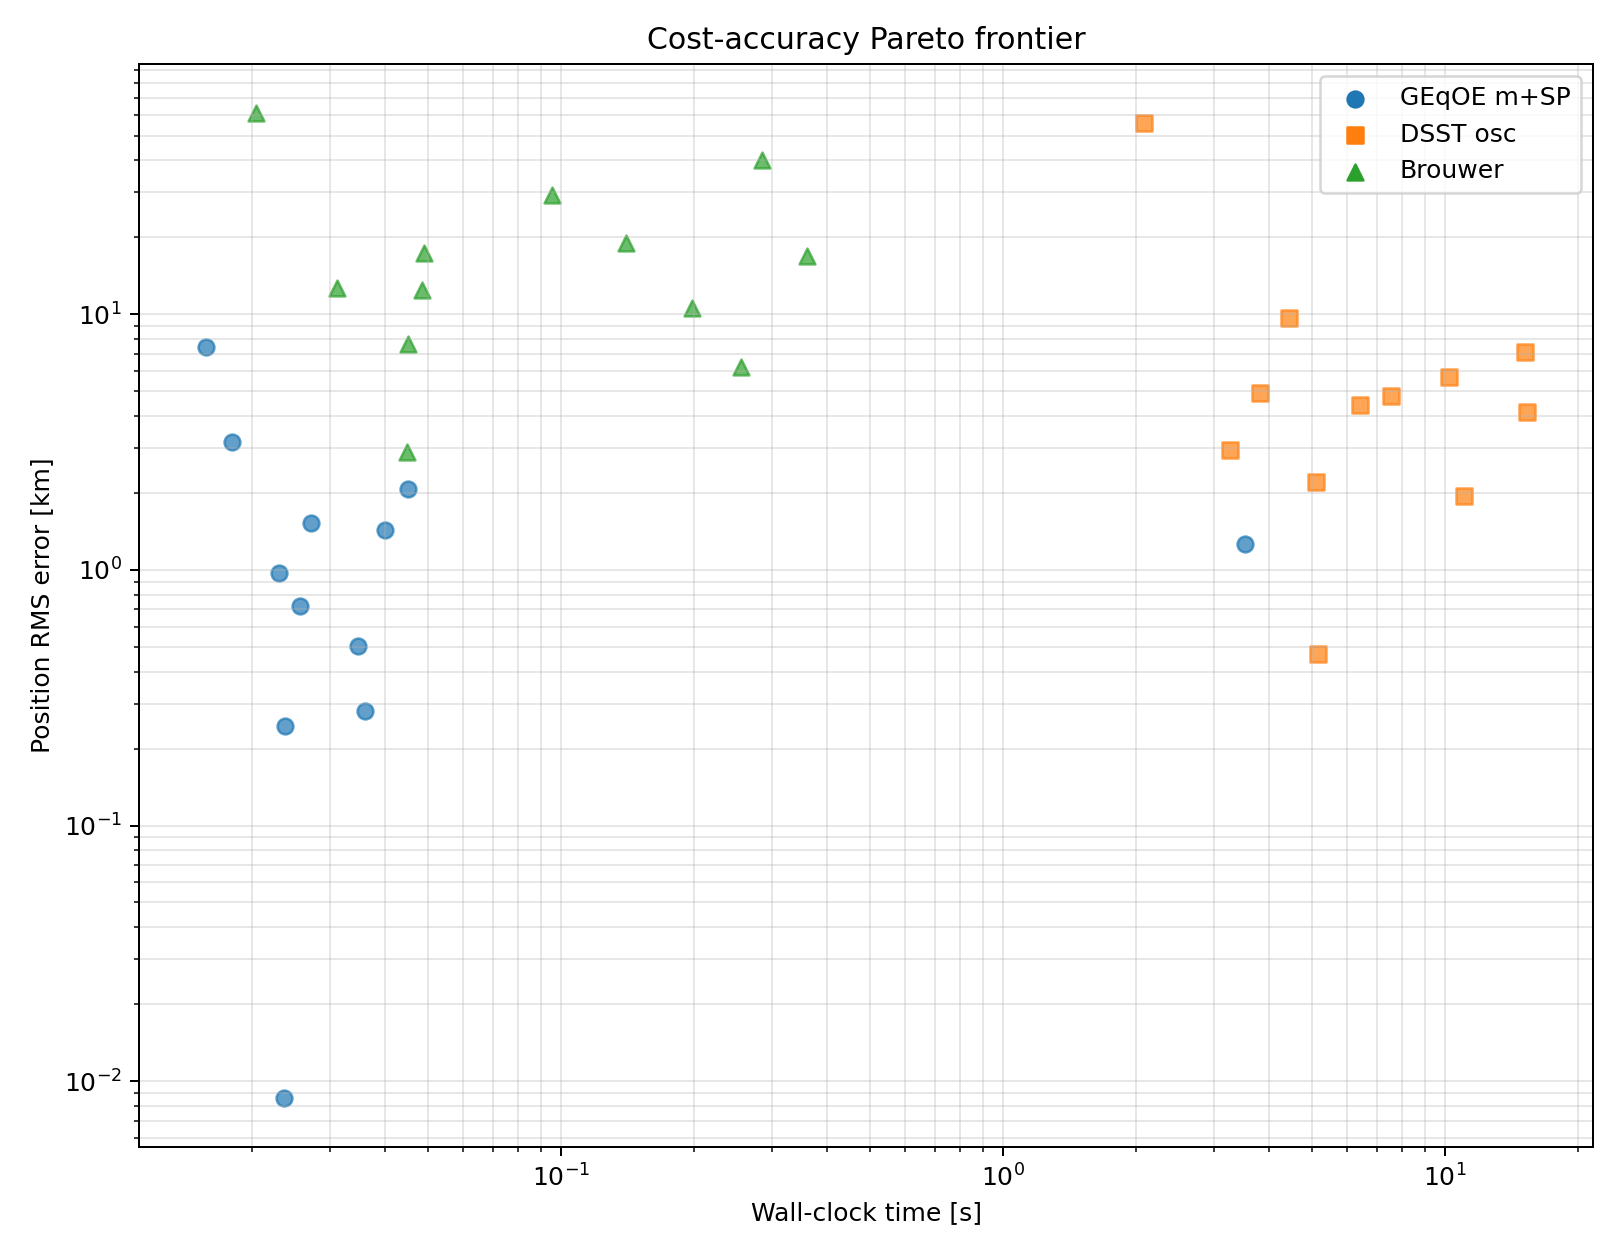
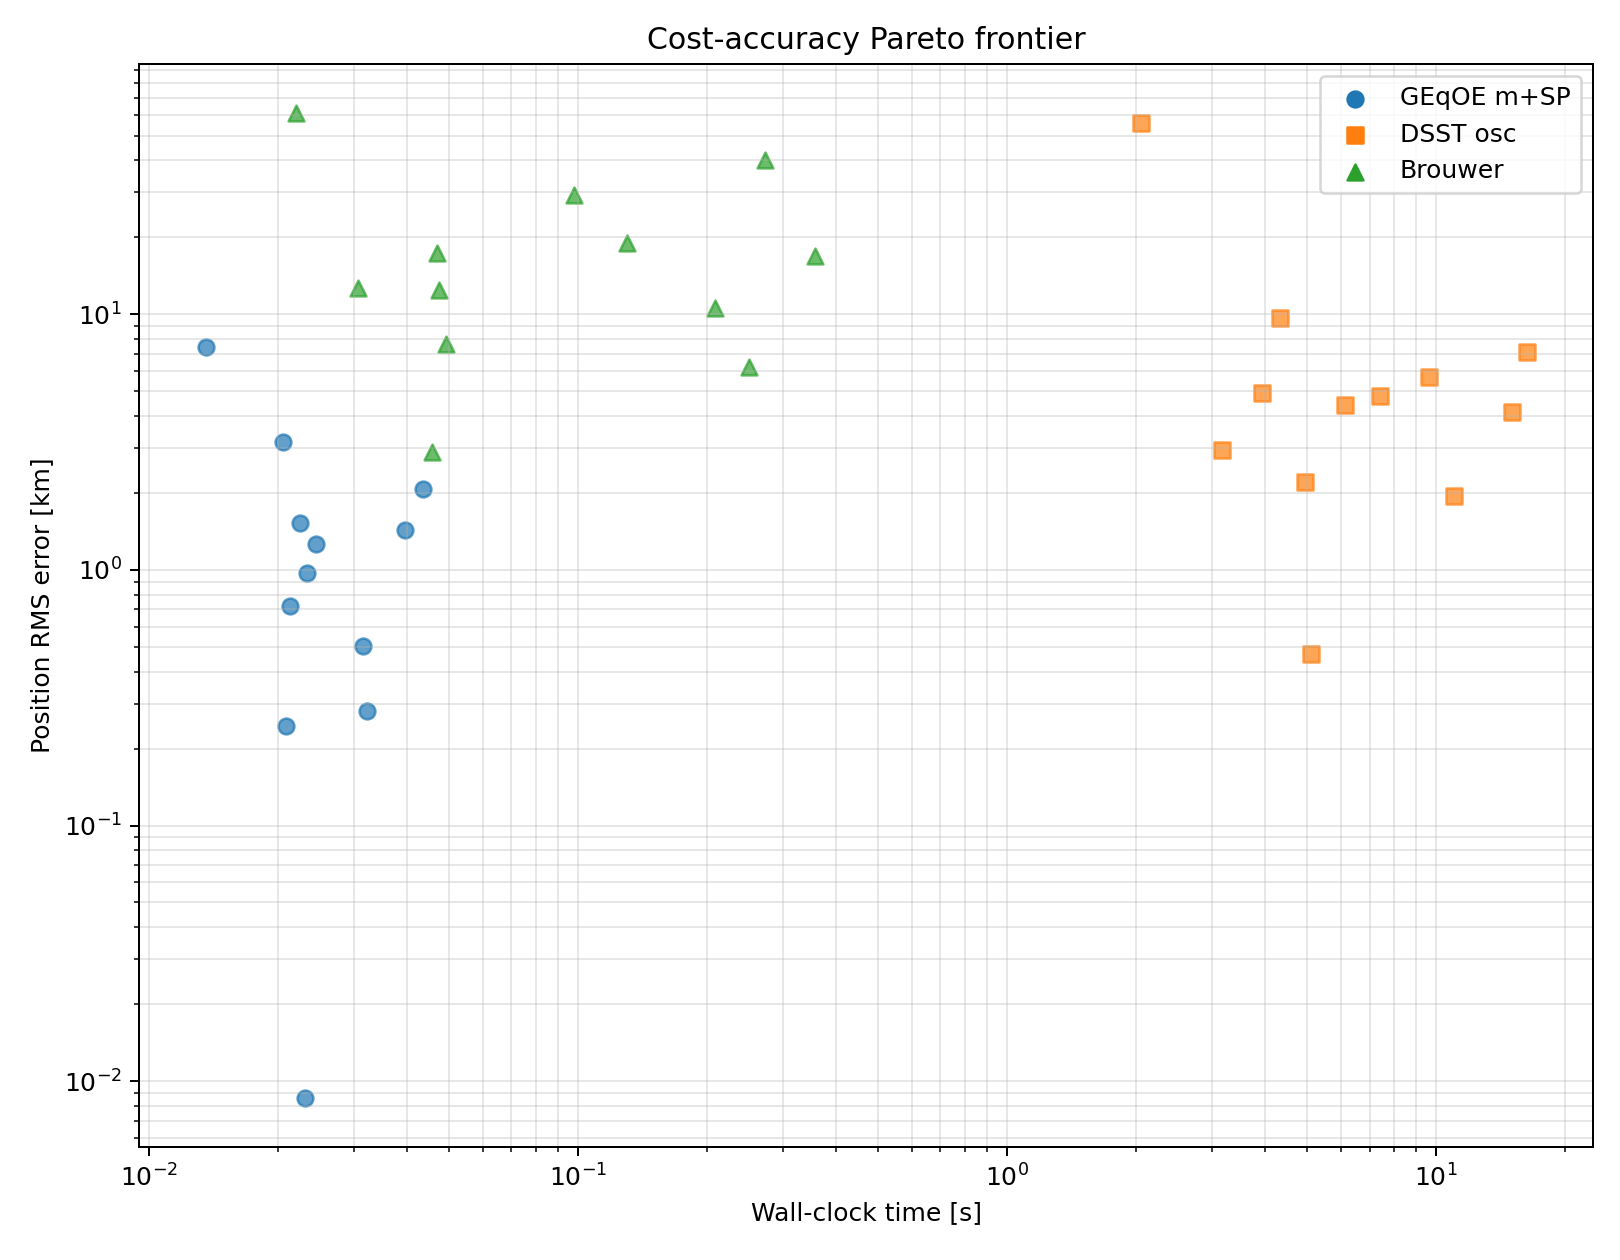
fix: add full pipeline warmup to eliminate first-call JIT from timings
Pre-build cfuncs, warm up scipy DOP853, and run a short dummy
propagation before the timing loop. LEO-circ now shows 0.02s (was
3.5s due to first-call JIT costs). All 12 cases consistently at
0.01-0.04s.

diff --git a/docs/geqoe_averaged/main_docs/dsst_timing_table.tex b/docs/geqoe_averaged/main_docs/dsst_timing_table.tex
@@ -1,28 +1,26 @@
 \begin{table}[ht]
 \centering
-\caption{Wall-clock propagation time [s] per case. GEqOE uses compiled
-cfuncs (heyoka LLVM) with an adaptive DOP853 integrator; one-time
-compilation cost (${\sim}12$~s) is excluded. The LEO circular entry
-includes a one-time scipy JIT warmup; steady-state cost is
-$0.02$--$0.05$~s.}
+\caption{Wall-clock propagation time [s] per case. GEqOE uses
+LLVM-compiled cfuncs (heyoka) with an adaptive DOP853 integrator;
+one-time compilation cost (${\sim}12$~s) is excluded.}
 \label{tab:dsst_timing}
 \small
 \begin{tabular}{@{}lrrrrr@{}}
 \toprule
 Case & Cowell & GEqOE m+SP & GEqOE mean & DSST osc & Brouwer \\
 \midrule
-LEO circ. & 0.28 & 3.53 & 3.51 & 5.09 & 0.20 \\
-LEO mod-$e$ & 0.03 & 0.02 & 0.01 & 6.40 & 0.05 \\
-SSO & 0.03 & 0.03 & 0.01 & 7.53 & 0.14 \\
-Near-equat. & 0.07 & 0.05 & 0.02 & 4.44 & 0.36 \\
-Crit.\ low-$e$ & 0.05 & 0.03 & 0.01 & 15.14 & 0.29 \\
-Crit.\ mod-$e$ & 0.05 & 0.04 & 0.01 & 15.31 & 0.10 \\
-Molniya & 0.02 & 0.02 & 0.01 & 10.19 & 0.03 \\
-GTO & 0.02 & 0.02 & 0.01 & 2.09 & 0.02 \\
-MEO/GPS & 0.03 & 0.02 & 0.01 & 5.15 & 0.04 \\
-Polar & 0.03 & 0.03 & 0.01 & 3.80 & 0.05 \\
-HEO mod-$e$ & 0.04 & 0.04 & 0.02 & 3.26 & 0.26 \\
-Retrograde & 0.03 & 0.02 & 0.01 & 11.06 & 0.05 \\
+LEO circ. & 0.28 & 0.02 & 0.01 & 4.96 & 0.21 \\
+LEO mod-$e$ & 0.03 & 0.02 & 0.01 & 6.13 & 0.05 \\
+SSO & 0.03 & 0.02 & 0.01 & 7.42 & 0.13 \\
+Near-equat. & 0.05 & 0.04 & 0.02 & 4.34 & 0.36 \\
+Crit.\ low-$e$ & 0.05 & 0.03 & 0.01 & 16.29 & 0.27 \\
+Crit.\ mod-$e$ & 0.05 & 0.03 & 0.01 & 15.07 & 0.10 \\
+Molniya & 0.02 & 0.02 & 0.01 & 9.64 & 0.03 \\
+GTO & 0.02 & 0.01 & 0.01 & 2.05 & 0.02 \\
+MEO/GPS & 0.03 & 0.02 & 0.01 & 5.11 & 0.05 \\
+Polar & 0.03 & 0.02 & 0.01 & 3.92 & 0.05 \\
+HEO mod-$e$ & 0.04 & 0.04 & 0.02 & 3.18 & 0.25 \\
+Retrograde & 0.03 & 0.02 & 0.01 & 11.02 & 0.05 \\
 \bottomrule
 \end{tabular}
 \end{table}

diff --git a/docs/geqoe_averaged/scripts/extended_validation.py b/docs/geqoe_averaged/scripts/extended_validation.py
@@ -1045,6 +1045,19 @@ def main():
     except ImportError:
         print("  heyoka cfuncs not available, using Python fallback")
 
+    # Full pipeline warmup: run a short dummy case to trigger all first-call
+    # JIT costs (scipy DOP853, numpy, geqoe2cart heyoka compilation, etc.)
+    print("Pipeline warmup (short dummy propagation)...")
+    _r0, _v0 = kepler_to_rv(7000, 0.01, 45, 0, 0, 0)
+    _pert = ZonalPerturbation(J_COEFFS, mu=MU, re=RE)
+    _s0 = cart2geqoe(_r0, _v0, MU, _pert)
+    _m0 = osculating_to_mean_state(_s0, J_COEFFS, re_val=RE, mu_val=MU)
+    _tg = np.linspace(0, 5000, 10)
+    _mh = rk4_integrate_mean(_m0, _tg, J_COEFFS, substeps=4)
+    _ob = mean_to_osculating_state_batch(_mh, J_COEFFS, re_val=RE, mu_val=MU)
+    geqoe2cart_zonal_batch(_ob, MU, _pert)
+    print("  done.")
+
     # Initialize Orekit
     print("Initializing Orekit...")
     _init_orekit()
